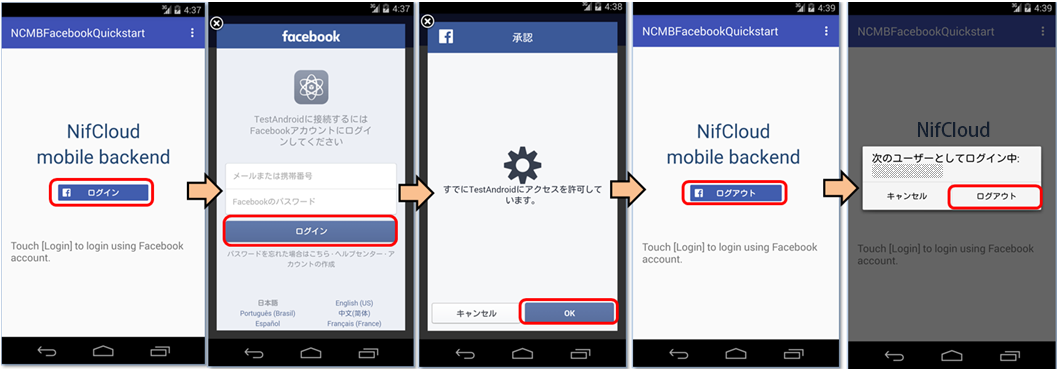
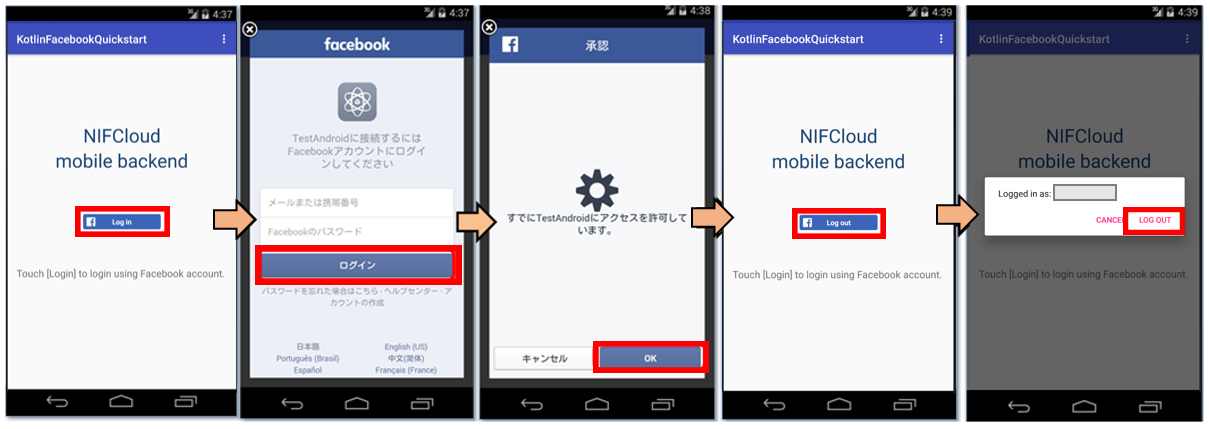
readme修正

Changed region(s): [[0.0, 0.0, 1.0, 1.0], [0.2491, 0.4435, 0.2802, 0.5027], [0.467, 0.3844, 0.4981, 0.414]]

diff --git a/README.md b/README.md
@@ -1,10 +1,10 @@
-# 【Android】アプリにFacebookログイン機能をつけよう！
+# 【Android】アプリにFacebookログイン機能をつけよう！for Kotlin
 ![画像1](/readme-img/Screen1.png)
 
 ## 概要
 * [ニフクラ mobile backend](https://mbaas.nifcloud.com/)の『SNS連携（Facebook連携）』を利用して、Facebookのログイン機能を実装したサンプルプロジェクトです。
 * Facebook連携で取得した会員データは[ニフクラ mobile backend](https://mbaas.nifcloud.com/)の『会員管理機能』として扱うことができます。
- * [【Android】アプリのログイン機能](https://github.com/ncmbadmin/android_login_demo)も用意していますので、参照ください。
+ * [【Android】アプリのログイン機能](https://github.com/NIFCloud-mbaas/KotlinLoginApp)も用意していますので、参照ください。
 * このコンテンツは簡単な操作ですぐに [ニフクラ mobile backend](https://mbaas.nifcloud.com/)の機能を体験いただけます。
 
 ## ニフクラ mobile backendについて
@@ -27,7 +27,7 @@
 
 
 ## 手順
-### 1. [ニフクラ mobile backend](https://mbaas.nifcloud.com/)の会員登録とアプリ作成
+### 1. [ニフクラ mobile backend](https://mbaas.nifcloud.com/signup.htm)の会員登録とアプリ作成
 
 * 上記リンクから会員登録（無料）をします。登録ができたらログインをすると下図のように「アプリの新規作成」画面が出るのでアプリを作成します。
 
@@ -55,7 +55,10 @@
 
 ### 4. APIキーの設定
 
-* `MainActivity.kt`を編集します。
+* AndroidStudioで `MainActivity.kt` を開きます。
+   * ディレクトリはデフォルトで「Android」が選択されていますので、「Project」に切り替えてから探してください。
+![画像8](/readme-img/project.png)
+
 * 先程[ニフクラ mobile backend](https://mbaas.nifcloud.com/)のダッシュボード上で確認したAPIキーを貼り付けます。
 
 ![画像07](/readme-img/Screen7.png)
@@ -131,7 +134,7 @@
 * Facebookログインの画面（ブラウザ）が表示されるので、必要事項を入力し、ログインを行います。
 * ログインに成功したらログアウトします。
 
-![画像16](/readme-img/Screen16.png)
+![画像16](/readme-img/Screen16.PNG)
 
 -----
 
